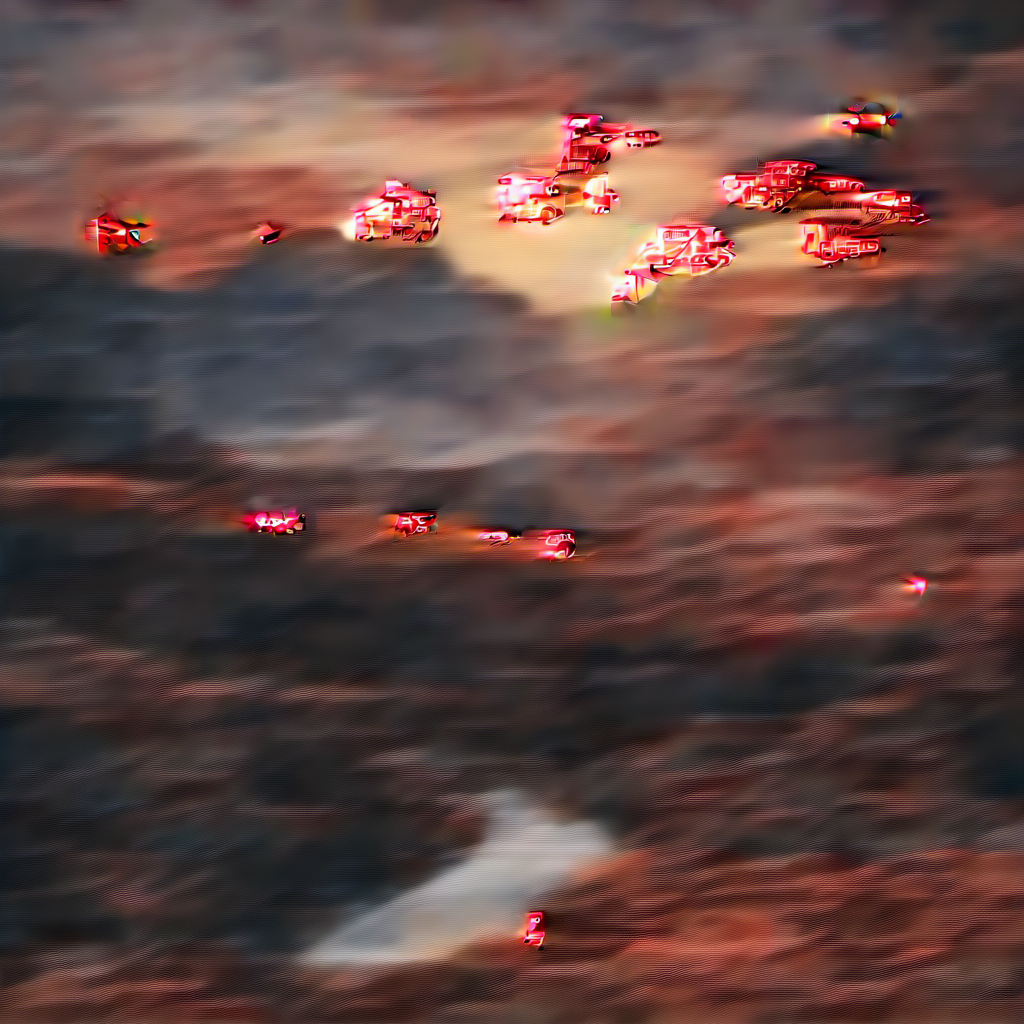
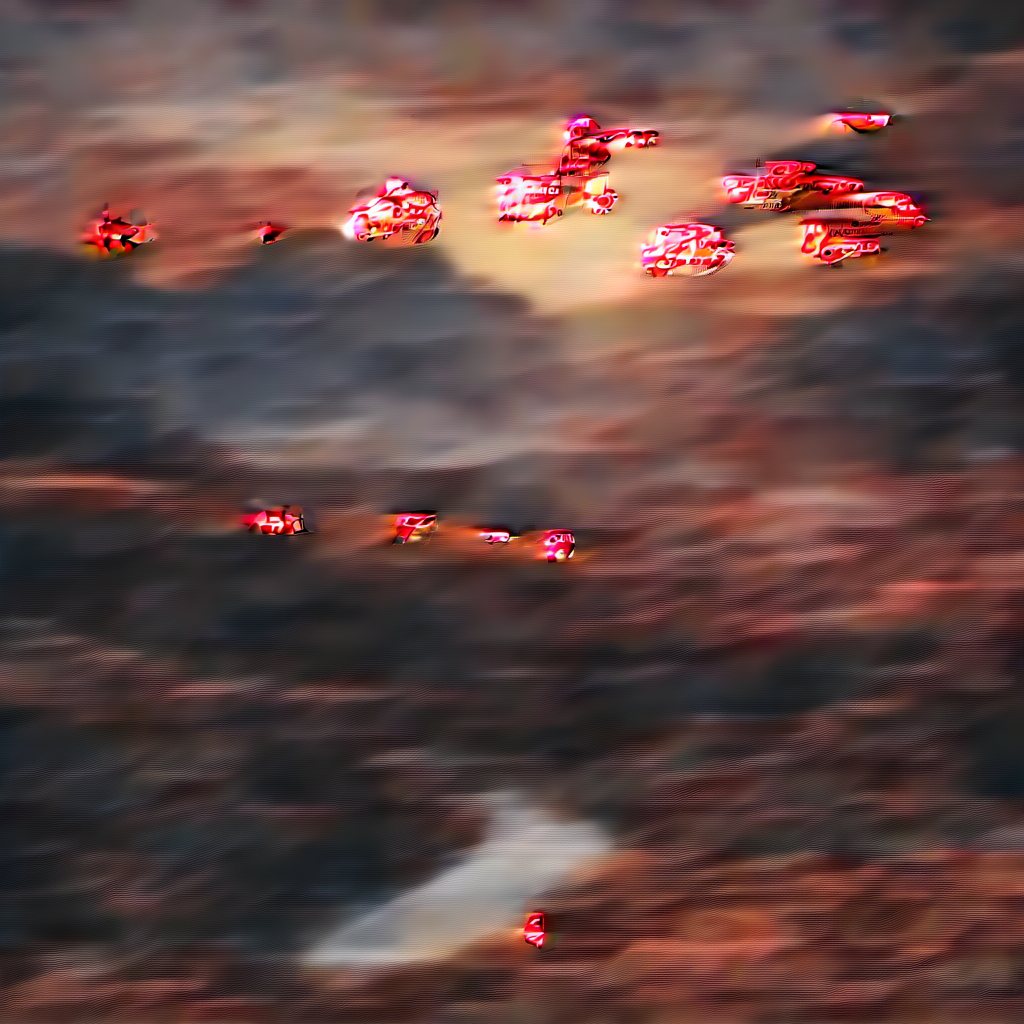
SDXL: FP32 residual accumulation + FP32 denoising state + debug tools
- FP32 residual accumulation in ResBlock, BasicTransformerBlock, and
  SpatialTransformer skip connections (same pattern as Anima fix)
- FP32 denoising state: latent kept in FP32 throughout sampling loop,
  only converted to BF16 for UNet input
- CFG computation done in FP32 to prevent precision loss

Diagnosis: flame-core BF16 ops produce ~200 spatially-correlated outlier
values per UNet forward pass (PyTorch BF16 produces zero). These compound
to produce visible pink artifacts. Root cause is in flame-core's CUDA
kernels (conv2d or SDPA), not the inference pipeline.

diff --git a/src/bin/sdxl_infer.rs b/src/bin/sdxl_infer.rs
@@ -117,20 +117,15 @@ fn main() -> anyhow::Result<()> {
     let latent_w = WIDTH / 8;
     let numel = 4 * latent_h * latent_w; // 4 latent channels
 
-    let noise_data: Vec<f32> = {
-        use rand::prelude::*;
-        let mut rng = rand::rngs::StdRng::seed_from_u64(SEED);
-        let mut v = Vec::with_capacity(numel);
-        for _ in 0..numel / 2 {
-            let u1: f32 = rng.gen::<f32>().max(1e-10);
-            let u2: f32 = rng.gen::<f32>();
-            let r = (-2.0 * u1.ln()).sqrt();
-            let theta = 2.0 * std::f32::consts::PI * u2;
-            v.push(r * theta.cos());
-            v.push(r * theta.sin());
-        }
-        v
-    };
+    // Load PyTorch noise (same seed=42) for exact comparison with diffusers
+    let noise_path = "/home/alex/EriDiffusion/inference-flame/output/sdxl_noise_seed42.safetensors";
+    let noise_tensors = flame_core::serialization::load_file(
+        std::path::Path::new(noise_path), &device,
+    )?;
+    let noise_tensor = noise_tensors.get("noise")
+        .ok_or_else(|| anyhow::anyhow!("Missing 'noise' tensor"))?
+        .clone();
+    println!("  Loaded PyTorch noise: {:?}", noise_tensor.dims());
 
     let (sigmas, timesteps) = build_sdxl_schedule(NUM_STEPS);
     println!("  sigma_max={:.4}, sigma_min={:.6}", sigmas[0], sigmas[NUM_STEPS - 1]);
@@ -138,18 +133,20 @@ fn main() -> anyhow::Result<()> {
 
     // Initialize x = noise * init_noise_sigma (sqrt(sigma_max^2 + 1) per diffusers)
     let init_sigma = (sigmas[0] * sigmas[0] + 1.0).sqrt();
-    let mut x = Tensor::from_f32_to_bf16(
-        noise_data, Shape::from_dims(&[1, 4, latent_h, latent_w]), device.clone(),
-    )?.mul_scalar(init_sigma)?;
+    let mut x = noise_tensor.to_dtype(DType::BF16)?.mul_scalar(init_sigma)?;
 
     let t0 = Instant::now();
+    // Keep denoising state in FP32 — only convert to BF16 for UNet input
+    let mut x_f32 = x.to_dtype(DType::F32)?;
+    drop(x);
+
     for i in 0..NUM_STEPS {
         let sigma = sigmas[i];
         let sigma_next = sigmas[i + 1];
 
-        // Scale input: x_in = x / sqrt(sigma^2 + 1)
+        // Scale input: x_in = x / sqrt(sigma^2 + 1), convert to BF16 for UNet
         let c_in = 1.0 / (sigma * sigma + 1.0).sqrt();
-        let x_in = x.mul_scalar(c_in)?;
+        let x_in = x_f32.mul_scalar(c_in)?.to_dtype(DType::BF16)?;
 
         // UNet expects discrete timestep (0-999), NOT sigma
         let timestep = Tensor::from_f32_to_bf16(
@@ -160,27 +157,25 @@ fn main() -> anyhow::Result<()> {
         let pred_cond = model.forward(&x_in, &timestep, &context, &y)?;
         let pred_uncond = model.forward(&x_in, &timestep, &context_uncond, &y_uncond)?;
 
-        // CFG
-        let diff = pred_cond.sub(&pred_uncond)?;
-        let pred = pred_uncond.add(&diff.mul_scalar(CFG_SCALE)?)?;
+        // CFG in FP32
+        let pred_cond_f32 = pred_cond.to_dtype(DType::F32)?;
+        let pred_uncond_f32 = pred_uncond.to_dtype(DType::F32)?;
+        let diff = pred_cond_f32.sub(&pred_uncond_f32)?;
+        let pred_f32 = pred_uncond_f32.add(&diff.mul_scalar(CFG_SCALE)?)?;
 
-        // Euler step for eps-prediction:
-        // derivative = eps (for epsilon prediction, d(x)/d(sigma) = eps)
-        // x_next = x + eps * (sigma_next - sigma)
+        // Euler step in FP32
         let dt = sigma_next - sigma;
-        x = x.add(&pred.mul_scalar(dt)?)?;
+        x_f32 = x_f32.add(&pred_f32.mul_scalar(dt)?)?;
 
-        {
-            let pred_f32 = pred.to_dtype(DType::F32)?;
-            let data = pred_f32.to_vec()?;
-            let mean_abs: f32 = data.iter().map(|v| v.abs()).sum::<f32>() / data.len() as f32;
-            let x_f32 = x.to_dtype(DType::F32)?;
+        if i == 0 || i == NUM_STEPS - 1 {
             let xd = x_f32.to_vec()?;
             let x_abs: f32 = xd.iter().map(|v| v.abs()).sum::<f32>() / xd.len() as f32;
-            println!("  Step {}/{}: t={:.0}, sigma={:.4}, pred_abs={:.4}, x_abs={:.4}, dt={:.4}",
-                i + 1, NUM_STEPS, timesteps[i], sigma, mean_abs, x_abs, dt);
+            println!("  Step {}/{}: x_abs={:.4}", i + 1, NUM_STEPS, x_abs);
         }
     }
+
+    // Convert final latent back to BF16 for saving
+    let x = x_f32.to_dtype(DType::BF16)?;
     let dt = t0.elapsed().as_secs_f32();
     println!("  {:.1}s ({:.2}s/step)", dt, dt / NUM_STEPS as f32);
 

diff --git a/src/models/sdxl_unet.rs b/src/models/sdxl_unet.rs
@@ -521,7 +521,10 @@ impl SDXLUNet {
             x.clone_result()?
         };
 
-        residual.add(&h)
+        // FP32 residual accumulation — prevents BF16 truncation error compounding
+        // through skip connections (same pattern as Anima's FP32 residual stream)
+        let out = residual.to_dtype(DType::F32)?.add(&h.to_dtype(DType::F32)?)?;
+        out.to_dtype(DType::BF16)
     }
 
     // -----------------------------------------------------------------------
@@ -610,7 +613,8 @@ impl SDXLUNet {
             1e-5,
         )?;
         let attn1_out = self.cross_attention(&x_norm1, &x_norm1, &format!("{prefix}.attn1"))?;
-        let x = x.add(&attn1_out)?;
+        // FP32 residual accumulation
+        let x = x.to_dtype(DType::F32)?.add(&attn1_out.to_dtype(DType::F32)?)?.to_dtype(DType::BF16)?;
 
         // Cross-attention: norm2 -> attn2 (Q from image, K/V from text context)
         let x_norm2 = layer_norm(
@@ -621,7 +625,7 @@ impl SDXLUNet {
             1e-5,
         )?;
         let attn2_out = self.cross_attention(&x_norm2, context, &format!("{prefix}.attn2"))?;
-        let x = x.add(&attn2_out)?;
+        let x = x.to_dtype(DType::F32)?.add(&attn2_out.to_dtype(DType::F32)?)?.to_dtype(DType::BF16)?;
 
         // Feed-forward: norm3 -> GEGLU -> Linear
         let x_norm3 = layer_norm(
@@ -644,7 +648,7 @@ impl SDXLUNet {
             &format!("{prefix}.ff.net.2.bias"),
         )?;
 
-        x.add(&ff_out)
+        x.to_dtype(DType::F32)?.add(&ff_out.to_dtype(DType::F32)?)?.to_dtype(DType::BF16)
     }
 
     /// SpatialTransformer: GroupNorm -> proj_in -> N x BasicTransformerBlock -> proj_out
@@ -705,7 +709,8 @@ impl SDXLUNet {
             self.conv2d_forward(&spatial, &format!("{prefix}.proj_out"))?
         };
 
-        residual.add(&out)
+        // FP32 residual accumulation
+        residual.to_dtype(DType::F32)?.add(&out.to_dtype(DType::F32)?)?.to_dtype(DType::BF16)
     }
 
     // -----------------------------------------------------------------------
@@ -848,6 +853,17 @@ impl SDXLUNet {
                     }
 
                     self.unload_block();
+
+                    // Debug: track max abs per output block (first call only)
+                    if std::env::var("SDXL_BLOCK_DEBUG").is_ok() {
+                        if let Ok(hf32) = h.to_dtype(DType::F32) {
+                            if let Ok(data) = hf32.to_vec() {
+                                let max_abs = data.iter().map(|v| v.abs()).fold(0.0f32, f32::max);
+                                let outliers = data.iter().filter(|v| v.abs() > 3.0).count();
+                                eprintln!("  output_blocks.{block_idx}: max_abs={max_abs:.2}, outliers>3={outliers}");
+                            }
+                        }
+                    }
                 }
                 _ => unreachable!("Output block has invalid descriptor type"),
             }
